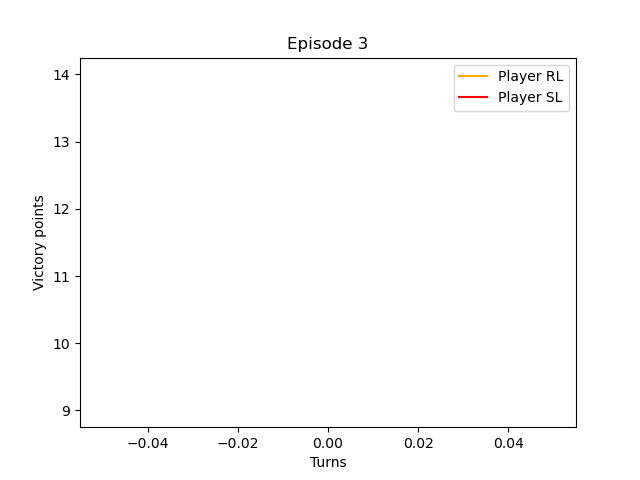
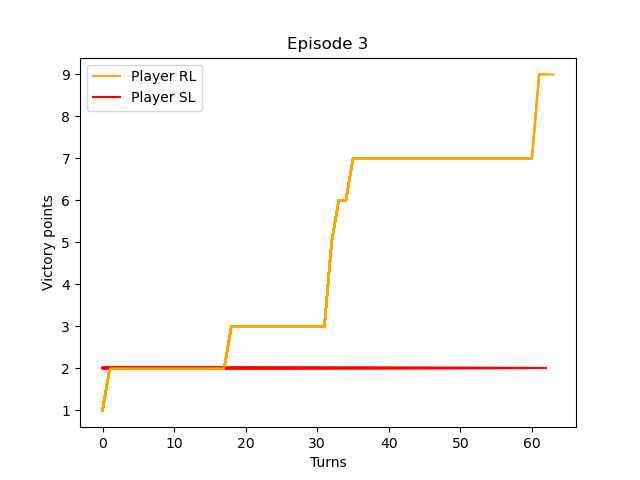
plot after 20 episodes.

diff --git a/Classes/GameController.py b/Classes/GameController.py
@@ -37,14 +37,13 @@ class GameController:
         
         self.total = pd.DataFrame(data={'places': [], 'edges':[], 'globals':[]})
 
-    def reset(self):
+    def reset(self, idEpisode):
         c.Board.Board().reset()
         c.Bank.Bank().reset()
         Gnn.Gnn().reset()
         self.game.reset()
         print("GLOBAL RESET")
-        # for player, strategy in zip(self.game.players, self.playerStrategies):
-        #     player.strategy = strategy
+        self.idEpisode = idEpisode
 
     def executeWithDeltaReward(self, player, action, thingNeeded, onlyPassTurn):
         prevPoints = player._victoryPoints
@@ -186,25 +185,26 @@ class GameController:
             os.makedirs("plots")
         plt.savefig("plots/episode{}.png".format(self.idEpisode))
         plt.clf()
-        self.idEpisode = self.idEpisode + 1
+        # self.idEpisode = self.idEpisode + 1
         print("Number of episode: ", self.idEpisode)
 
-    def plotVictoryPoints(self, points, id):
-        if(id != self.lastId):
-            plt.figure(1)
-            plt.xlabel('Turns')
-            plt.ylabel('Victory points')
-            if id == 1:
-                self.valueFunction1.append(points)
-                plt.plot(self.valueFunction1, color='red', label='Player SL')
-            elif id == 2:
-                self.valueFunction2.append(points)
-                plt.plot(self.valueFunction2, color='orange', label='Player RL')
-            handles, labels = plt.gca().get_legend_handles_labels()
-            if len(handles) <= 2:
-                plt.legend()
-            # plt.tight_layout()
-            plt.title("Episode "+ str(self.idEpisode))
-            plt.pause(0.001)
-            self.lastId = id
+    def plotVictoryPoints(self, points, idPlayer):
+        if(self.idEpisode > 20):
+            if(idPlayer != self.lastId):
+                plt.figure(1)
+                plt.xlabel('Turns')
+                plt.ylabel('Victory points')
+                if idPlayer == 1:
+                    self.valueFunction1.append(points)
+                    plt.plot(self.valueFunction1, color='red', label='Player SL')
+                elif idPlayer == 2:
+                    self.valueFunction2.append(points)
+                    plt.plot(self.valueFunction2, color='orange', label='Player RL')
+                    handles, labels = plt.gca().get_legend_handles_labels()
+                    if len(handles) <= 2:
+                        plt.legend()
+                    # plt.tight_layout()
+                    plt.title("Episode "+ str(self.idEpisode))
+                    plt.pause(0.001)
+                self.lastId = idPlayer
 

diff --git a/main.py b/main.py
@@ -134,22 +134,19 @@ if __name__ == '__main__':
         purStrategy = PureStrategy()
         rlStrategy = ReinforcementLearningStrategy()
         # strategies = [hybStrategy, purStrategy]
-        strategies = [purStrategy, rlStrategy]
+        strategies = [prioStrategy, rlStrategy]
         withGraphics = False
         idEpisode = 0
         gameCtrl = c.GameController.GameController(playerStrategies = strategies, idEpisode = idEpisode, withGraphics=withGraphics, speed=True, saveOnFile=False)
-        gameCtrl.reset()
+        # gameCtrl.reset()
         start_time = time.time()
-        for i in range(0, 10):
-            # gameCtrl.__init__(strategies, withGraphics, True, False)
-            # gameCtrl = c.GameController.GameController(playerStrategies = strategies, idEpisode = idEpisode, withGraphics=withGraphics, speed=True, saveOnFile=False)
-            gameCtrl.resetPlot()
+        for i in range(0, 22):
             winner = gameCtrl.playGame()
             if(winner.strategy.name() == "RL"):
-                 rlStrategy.epsDecay()
-                 print(rlStrategy.eps)
-            gameCtrl.reset()
+                 winner.strategy.epsDecay()
+                 print(winner.strategy.getEps())
             idEpisode += 1
+            gameCtrl.reset(idEpisode)
         end_time = time.time()
         execution_time = end_time - start_time
         print(f"Execution time: {execution_time} seconds")

diff --git a/Classes/Strategy/ReinforcementLearningStrategy.py b/Classes/Strategy/ReinforcementLearningStrategy.py
@@ -8,19 +8,23 @@ import random
 
 class ReinforcementLearningStrategy(Strategy):
     def __init__(self): # diventerà un singleton
-        
+        print("RL STRATEGY CONSTRUCTOR")
         # self, nInputs, nOutputs, criterion, device
         # device = torch.device("cuda:0" if torch.cuda.is_available() else "cpu")
         # self.macroDQN = DQNagent(nInputs, nOutputs, criterion) # macro rete decisionale
 
         self.macroDQN = DQGNNagent(11, 10) # macro rete decisionale
-        self.eps = self.macroDQN.EPS
+        # self.eps = self.macroDQN.EPS
 
     def name(self):
         return "RL"
     
+    def getEps(self):
+        return self.macroDQN.EPS
+    
     def epsDecay(self):
         self.macroDQN.epsDecay()
+        # self.eps = self.macroDQN.EPS
 
     def bestAction(self, player):  #, previousReward):
         if(player.game.actualTurn<player.game.nplayers):

diff --git a/RL/DQGNN.py b/RL/DQGNN.py
@@ -12,7 +12,7 @@ Transition = namedtuple('Transition', ('graph', 'glob', 'action', 'reward', 'nex
 class DQGNNagent():
     # def __init__(self, nInputs, nOutputs, criterion = torch.nn.SmoothL1Loss(), device = torch.device("cuda:0" if torch.cuda.is_available() else "cpu")) -> None:
     def __init__(self, nInputs, nOutputs, criterion = torch.nn.SmoothL1Loss(), device = torch.device("cpu")) -> None:
-
+        print("DQGNNAgent CONSTRUCTOR")
         self.BATCH_SIZE = 16 # 64 # 256
         self.GAMMA = 0.99
         self.EPS = 0.5
@@ -31,6 +31,7 @@ class DQGNNagent():
 
     def epsDecay(self):
         self.EPS = self.EPS * self.decay
+        print("decay invoked.")
         if(self.EPS < 0.0001):
             self.EPS = 0
 
